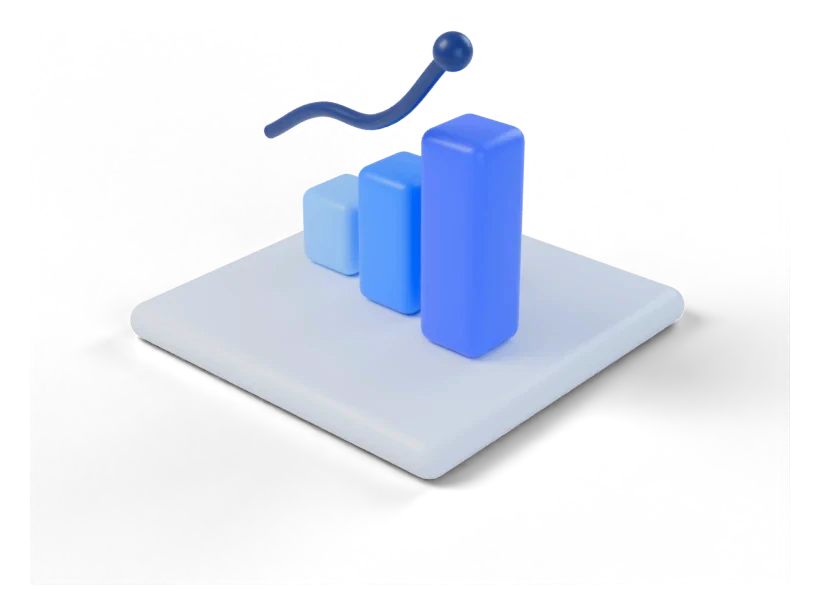
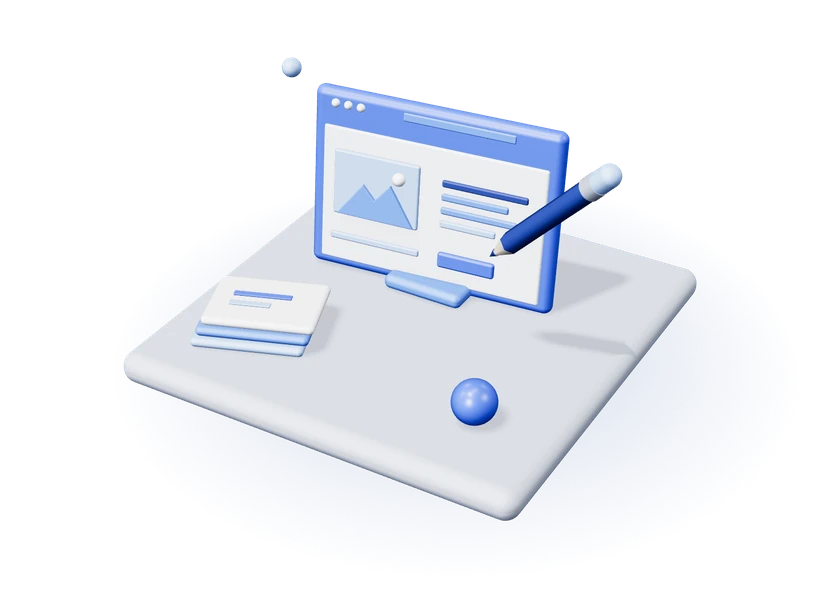
add visi and mission

Changed region(s): [[0.1524, 0.0309, 0.8841, 0.865], [0.3354, 0.0927, 0.3659, 0.1236]]

diff --git a/index.html b/index.html
@@ -5,7 +5,7 @@
 <meta name="viewport" content="width=device-width, initial-scale=1">
 <title>Befisien Technologies | AI Agent, Otomasi Workflow &amp; Integrasi Sistem</title>
 <meta name="description" content="Konsultan IT &amp; transformasi digital di Indonesia: AI agent, otomasi workflow, integrasi sistem, dashboard, dan CMS agar bisnis bekerja lebih efisien.">
-<link rel="canonical" href="https://befisien.cloud/">
+<link rel="canonical" href="https://befisien.com/">
 <meta name="robots" content="index, follow, max-image-preview:large, max-snippet:-1">
 <meta name="author" content="Befisien Technologies">
 <meta name="theme-color" content="#1F5BEA">
@@ -14,17 +14,17 @@
 <meta property="og:type" content="website">
 <meta property="og:site_name" content="Befisien Technologies">
 <meta property="og:locale" content="id_ID">
-<meta property="og:url" content="https://befisien.cloud/">
+<meta property="og:url" content="https://befisien.com/">
 <meta property="og:title" content="Befisien Technologies: Bisnis lebih efisien dengan AI &amp; otomasi">
 <meta property="og:description" content="Konsultan IT &amp; transformasi digital di Indonesia: AI agent, otomasi workflow, integrasi sistem, dashboard, dan CMS agar bisnis bekerja lebih efisien.">
-<meta property="og:image" content="https://befisien.cloud/assets/img/og-image.jpg">
+<meta property="og:image" content="https://befisien.com/assets/img/og-image.jpg">
 <meta property="og:image:width" content="1200">
 <meta property="og:image:height" content="630">
 <meta property="og:image:alt" content="Befisien Technologies: Bisnis lebih efisien dengan AI &amp; otomasi">
 <meta name="twitter:card" content="summary_large_image">
 <meta name="twitter:title" content="Befisien Technologies: Bisnis lebih efisien dengan AI &amp; otomasi">
 <meta name="twitter:description" content="Konsultan IT &amp; transformasi digital di Indonesia: AI agent, otomasi workflow, integrasi sistem, dashboard, dan CMS agar bisnis bekerja lebih efisien.">
-<meta name="twitter:image" content="https://befisien.cloud/assets/img/og-image.jpg">
+<meta name="twitter:image" content="https://befisien.com/assets/img/og-image.jpg">
 
 <!-- icons -->
 <link rel="icon" type="image/svg+xml" href="assets/img/logo-icon.svg">
@@ -44,19 +44,19 @@
   "@graph": [
     {
       "@type": "Organization",
-      "@id": "https://befisien.cloud/#organization",
+      "@id": "https://befisien.com/#organization",
       "name": "Befisien Technologies",
       "alternateName": "Befisien",
-      "url": "https://befisien.cloud/",
+      "url": "https://befisien.com/",
       "logo": {
         "@type": "ImageObject",
-        "url": "https://befisien.cloud/assets/img/logo-512.png",
+        "url": "https://befisien.com/assets/img/logo-512.png",
         "width": 512,
         "height": 512
       },
-      "image": "https://befisien.cloud/assets/img/og-image.jpg",
+      "image": "https://befisien.com/assets/img/og-image.jpg",
       "description": "Befisien Technologies adalah konsultan IT dan transformasi digital di Indonesia. Kami membantu perusahaan bekerja lebih efisien melalui AI agent, otomasi workflow, integrasi sistem, dashboard & aplikasi, serta content management service.",
-      "email": "[email@befisien.cloud]",
+      "email": "info@befisien.com",
       "telephone": "[+62 xxx xxxx xxxx]",
       "sameAs": [
         "[linkedin-url]"
@@ -76,7 +76,7 @@
       "contactPoint": {
         "@type": "ContactPoint",
         "contactType": "sales",
-        "email": "[email@befisien.cloud]",
+        "email": "info@befisien.com",
         "telephone": "[+62 xxx xxxx xxxx]",
         "areaServed": "ID",
         "availableLanguage": [
@@ -95,7 +95,7 @@
               "name": "AI Agent",
               "description": "Asisten digital berbasis AI yang memahami dokumen, data, dan percakapan bisnis untuk menjawab pelanggan, menyiapkan laporan, dan menjalankan tugas berulang 24/7.",
               "provider": {
-                "@id": "https://befisien.cloud/#organization"
+                "@id": "https://befisien.com/#organization"
               },
               "areaServed": {
                 "@type": "Country",
@@ -110,7 +110,7 @@
               "name": "Otomasi Workflow",
               "description": "Mengubah pekerjaan manual dan berulang, seperti approval, sinkronisasi data, dan pembuatan dokumen, menjadi alur kerja otomatis yang terukur.",
               "provider": {
-                "@id": "https://befisien.cloud/#organization"
+                "@id": "https://befisien.com/#organization"
               },
               "areaServed": {
                 "@type": "Country",
@@ -125,7 +125,7 @@
               "name": "Integrasi Sistem",
               "description": "Menghubungkan ERP, CRM, CMS, marketplace, dan sistem lama sehingga data cukup diinput sekali dan mengalir otomatis ke semua tim.",
               "provider": {
-                "@id": "https://befisien.cloud/#organization"
+                "@id": "https://befisien.com/#organization"
               },
               "areaServed": {
                 "@type": "Country",
@@ -140,7 +140,7 @@
               "name": "Dashboard & Aplikasi",
               "description": "Dashboard KPI real-time dan aplikasi web/mobile internal yang dibuat sesuai alur kerja perusahaan.",
               "provider": {
-                "@id": "https://befisien.cloud/#organization"
+                "@id": "https://befisien.com/#organization"
               },
               "areaServed": {
                 "@type": "Country",
@@ -155,7 +155,7 @@
               "name": "Content Management Service",
               "description": "Pembuatan dan pengelolaan CMS agar tim dapat memperbarui website, katalog, dan konten tanpa bergantung pada developer.",
               "provider": {
-                "@id": "https://befisien.cloud/#organization"
+                "@id": "https://befisien.com/#organization"
               },
               "areaServed": {
                 "@type": "Country",
@@ -164,34 +164,35 @@
             }
           }
         ]
-      }
+      },
+      "slogan": "Menjadi penggerak efisiensi bisnis di Indonesia melalui integrasi AI Agent, guna mewujudkan ekosistem usaha yang tangguh, minim eror, dan tumbuh tanpa batas."
     },
     {
       "@type": "WebSite",
-      "@id": "https://befisien.cloud/#website",
-      "url": "https://befisien.cloud/",
+      "@id": "https://befisien.com/#website",
+      "url": "https://befisien.com/",
       "name": "Befisien Technologies",
       "inLanguage": "id-ID",
       "publisher": {
-        "@id": "https://befisien.cloud/#organization"
+        "@id": "https://befisien.com/#organization"
       }
     },
     {
       "@type": "WebPage",
-      "@id": "https://befisien.cloud/#webpage",
-      "url": "https://befisien.cloud/",
+      "@id": "https://befisien.com/#webpage",
+      "url": "https://befisien.com/",
       "name": "Befisien Technologies | AI Agent, Otomasi Workflow & Integrasi Sistem",
       "description": "Konsultan IT & transformasi digital di Indonesia: AI agent, otomasi workflow, integrasi sistem, dashboard, dan CMS agar bisnis bekerja lebih efisien.",
       "inLanguage": "id-ID",
       "isPartOf": {
-        "@id": "https://befisien.cloud/#website"
+        "@id": "https://befisien.com/#website"
       },
       "about": {
-        "@id": "https://befisien.cloud/#organization"
+        "@id": "https://befisien.com/#organization"
       },
       "primaryImageOfPage": {
         "@type": "ImageObject",
-        "url": "https://befisien.cloud/assets/img/og-image.jpg",
+        "url": "https://befisien.com/assets/img/og-image.jpg",
         "width": 1200,
         "height": 630
       },
@@ -199,7 +200,7 @@
     },
     {
       "@type": "FAQPage",
-      "@id": "https://befisien.cloud/#faq",
+      "@id": "https://befisien.com/#faq",
       "inLanguage": "id-ID",
       "mainEntity": [
         {
@@ -276,6 +277,7 @@
       <a href="#solusi">Solusi</a>
       <a href="#penerapan">Penerapan</a>
       <a href="#proses">Cara Kerja</a>
+      <a href="#tentang">Tentang Kami</a>
       <a href="#faq">FAQ</a>
     </nav>
     <a href="#kontak" class="btn btn-primary">Konsultasi Gratis</a>
@@ -582,6 +584,81 @@
     </div>
   </section>
 
+  <!-- ABOUT -->
+  <section id="tentang" class="section about">
+    <div class="container">
+      <div class="sec-head">
+        <div>
+          <span class="eyebrow">Tentang kami</span>
+          <h2>Visi &amp; misi <span class="hl">Befisien</span></h2>
+        </div>
+        <p>Alasan kami ada, dan komitmen yang kami pegang di setiap proyek.</p>
+      </div>
+
+      <div class="vision">
+        <svg class="vision-rings" viewBox="0 0 600 600" aria-hidden="true"><g fill="none" stroke="#fff" stroke-width="34"><circle cx="300" cy="300" r="120"/><circle cx="300" cy="300" r="210"/><circle cx="300" cy="300" r="300"/></g></svg>
+        <span class="vision-label"><span class="dot"></span>Visi</span>
+        <blockquote><p>“Menjadi <span>penggerak efisiensi bisnis di Indonesia</span> melalui integrasi AI Agent, guna mewujudkan ekosistem usaha yang tangguh, minim eror, dan tumbuh tanpa batas.”</p></blockquote>
+      </div>
+
+      <div class="mission-head">
+        <h3>Misi</h3>
+        <p>Untuk mencapai visi tersebut, Befisien berkomitmen untuk:</p>
+      </div>
+      <ol class="missions">
+          <li>
+            <span class="m-num" aria-hidden="true">01</span>
+            <h4>Personalisasi Solusi AI</h4>
+            <p>Membangun AI Agent yang dirancang khusus sesuai dengan kebutuhan unik setiap departemen di perusahaan klien, bukan solusi satu-untuk-semua.</p>
+          </li>
+          <li>
+            <span class="m-num" aria-hidden="true">02</span>
+            <h4>Akselerasi Pertumbuhan <small>(Growth Hacking)</small></h4>
+            <p>Mengoptimalkan proses bisnis yang lambat menjadi instan, sehingga klien dapat melakukan scaling tanpa terhambat masalah administratif.</p>
+          </li>
+          <li>
+            <span class="m-num" aria-hidden="true">03</span>
+            <h4>Eliminasi Human Error</h4>
+            <p>Mengintegrasikan sistem cerdas yang mampu bekerja dengan presisi tinggi 24/7 untuk menjaga standar kualitas kerja klien.</p>
+          </li>
+          <li>
+            <span class="m-num" aria-hidden="true">04</span>
+            <h4>Demokratisasi Teknologi Tinggi</h4>
+            <p>Menghadirkan teknologi AI mutakhir yang biasanya hanya dimiliki perusahaan besar, agar dapat diakses dan digunakan dengan mudah oleh UMKM dan CV yang sedang berkembang.</p>
+          </li>
+          <li>
+            <span class="m-num" aria-hidden="true">05</span>
+            <h4>Edukasi Efisiensi</h4>
+            <p>Menjadi partner konsultasi yang membantu pemilik bisnis memahami cara kerja cerdas (work smarter) melalui kolaborasi manusia dan AI.</p>
+          </li>
+      </ol>
+
+      <div class="philosophy">
+        <div class="philo-mark" aria-hidden="true">
+          <img src="assets/img/logo-icon.svg" alt="" width="100" height="120" loading="lazy">
+          <span class="logo-text"><b>BEFISIEN</b><small>TECHNOLOGIES</small></span>
+        </div>
+        <div>
+          <h3>Filosofi di balik <span>nama &amp; logo</span></h3>
+          <dl class="philo-list">
+          <div>
+            <dt>B<small>Build / Become</small></dt>
+            <dd>Membangun pondasi yang kuat.</dd>
+          </div>
+          <div>
+            <dt>EFISIEN</dt>
+            <dd>Fokus tunggal kami.</dd>
+          </div>
+          <div>
+            <dt>Tiga garis</dt>
+            <dd>Menunjukkan proses bertumbuhnya sebuah bisnis, sekaligus simbol integrasi: semuanya saling terhubung.</dd>
+          </div>
+          </dl>
+        </div>
+      </div>
+    </div>
+  </section>
+
   <!-- FAQ -->
   <section id="faq" class="section faq">
     <div class="container faq-inner">
@@ -633,7 +710,7 @@
         <div class="contact-alt">
           <span>Lebih suka langsung?</span>
           <a href="https://wa.me/[62xxxxxxxxxx]" class="btn btn-outline-light" rel="noopener">Chat WhatsApp</a>
-          <a href="mailto:[email@befisien.cloud]" class="contact-mail">[email@befisien.cloud]</a>
+          <a href="mailto:info@befisien.com" class="contact-mail">info@befisien.com</a>
         </div>
       </div>
 
@@ -694,12 +771,12 @@
     <div class="footer-top">
       <p>Befisien Technologies: konsultan IT &amp; transformasi digital untuk perusahaan di Indonesia.</p>
       <nav class="footer-nav" aria-label="Navigasi footer">
-        <a href="#solusi">Solusi</a><a href="#penerapan">Penerapan</a><a href="#proses">Cara Kerja</a><a href="#faq">FAQ</a><a href="#kontak">Kontak</a>
+        <a href="#solusi">Solusi</a><a href="#penerapan">Penerapan</a><a href="#proses">Cara Kerja</a><a href="#tentang">Tentang Kami</a><a href="#faq">FAQ</a><a href="#kontak">Kontak</a>
       </nav>
     </div>
     <div class="footer-bottom">
       <a href="#top" class="logo"><img src="assets/img/logo-icon.svg" alt=""><span class="logo-text"><b>BEFISIEN</b><small>TECHNOLOGIES</small></span></a>
-      <span class="contact"><span>[email@befisien.cloud]</span><span>[+62 xxx xxxx xxxx]</span><a href="[linkedin-url]" rel="noopener">LinkedIn</a></span>
+      <span class="contact"><span>info@befisien.com</span><span>[+62 xxx xxxx xxxx]</span><a href="[linkedin-url]" rel="noopener">LinkedIn</a></span>
       <span>© <span id="year">2026</span> Befisien Technologies</span>
     </div>
   </div>

diff --git a/assets/css/style.css b/assets/css/style.css
@@ -39,7 +39,7 @@ h1,h2,h3{margin:0;font-weight:800;letter-spacing:-.025em}
 .logo img{width:32px;height:38px}
 .logo-text{display:flex;flex-direction:column;line-height:1}
 .logo-text b{font-weight:800;font-size:20px;letter-spacing:.02em}
-.logo-text small{font-weight:700;font-size:9.5px;letter-spacing:.12em;margin-top:3px}
+.logo-text small{font-weight:800;font-size:10px;letter-spacing:.1em;margin-top:3px}
 
 /* nav */
 .site-header{position:sticky;top:0;z-index:20;background:rgba(255,255,255,.92);backdrop-filter:blur(10px)}
@@ -191,6 +191,40 @@ section[id]{scroll-margin-top:80px}
 .uc-link:hover{color:var(--accent-dark)}
 .uc-link:hover svg{transform:translateX(3px)}
 
+/* about */
+.about{background:#F3F7FF}
+.vision{position:relative;overflow:hidden;margin-bottom:72px;padding:56px;border-radius:32px;background:var(--accent);color:#fff}
+.vision-rings{position:absolute;right:-200px;top:-220px;width:600px;height:600px;opacity:.14;overflow:visible;pointer-events:none}
+.vision-label{position:relative;display:inline-flex;align-items:center;gap:8px;padding:8px 14px;border-radius:999px;background:#fff;color:var(--navy);font-size:13px;font-weight:700}
+.vision blockquote{position:relative;max-width:920px;margin:28px 0 0}
+.vision blockquote p{margin:0;font-size:clamp(26px,3.1vw,42px);font-weight:800;line-height:1.25;letter-spacing:-.02em}
+.vision blockquote span{color:var(--sky)}
+.mission-head{display:flex;flex-wrap:wrap;align-items:baseline;gap:8px 24px;margin-bottom:28px}
+.mission-head h3{font-size:36px}
+.mission-head p{margin:0;font-size:16px;color:var(--text-2)}
+.missions{list-style:none;margin:0;padding:0;display:grid;grid-template-columns:repeat(6,minmax(0,1fr));gap:16px}
+.missions li{grid-column:span 2;display:flex;flex-direction:column;gap:12px;padding:26px;border-radius:24px;background:#fff;border:1.5px solid #E3EAF8;transition:border-color .2s,box-shadow .2s}
+.missions li:nth-child(n+4){grid-column:span 3}
+.missions li:hover{border-color:#C5D4F5;box-shadow:0 24px 40px -30px rgba(31,91,234,.45)}
+.m-num{width:44px;height:44px;border-radius:14px;background:var(--tint);color:var(--accent);display:flex;align-items:center;justify-content:center;font-size:15px;font-weight:800}
+.missions h4{margin:6px 0 0;font-size:20px;font-weight:800;letter-spacing:-.01em;line-height:1.3}
+.missions h4 small{display:block;margin-top:2px;font-size:14px;font-weight:600;color:var(--accent)}
+.missions p{margin:0;font-size:15px;line-height:1.6;color:var(--text-2)}
+.philosophy{margin-top:72px;display:grid;grid-template-columns:minmax(0,4fr) minmax(0,7fr);gap:48px;align-items:center;padding:48px;border-radius:32px;background:var(--navy);color:#fff}
+.philo-mark{display:flex;flex-direction:column;align-items:center;gap:24px;padding:48px 24px;border-radius:24px;background:rgba(255,255,255,.04);border:1px solid var(--navy-line)}
+.philo-mark img{width:96px;height:auto}
+.philo-mark .logo-text{align-items:center}
+.philo-mark .logo-text b{font-size:34px}
+.philo-mark .logo-text small{font-size:16.5px;margin-top:5px}
+.philosophy h3{margin-bottom:24px;font-size:32px;line-height:1.15}
+.philosophy h3 span{color:var(--sky-2)}
+.philo-list{margin:0;display:grid;gap:18px}
+.philo-list div{display:grid;grid-template-columns:160px minmax(0,1fr);gap:16px;padding-bottom:18px;border-bottom:1px solid var(--navy-line)}
+.philo-list div:last-child{padding-bottom:0;border-bottom:0}
+.philo-list dt{font-size:18px;font-weight:800;color:var(--sky-2)}
+.philo-list dt small{display:block;margin-top:2px;font-size:13px;font-weight:600;color:var(--muted-on-dark)}
+.philo-list dd{margin:0;font-size:16px;line-height:1.6;color:#D5DEF5}
+
 /* faq */
 .faq{padding-top:56px}
 .faq-inner{display:grid;grid-template-columns:minmax(0,4fr) minmax(0,8fr);gap:48px;align-items:start}
@@ -289,6 +323,10 @@ section[id]{scroll-margin-top:80px}
   .uc-grid{grid-template-columns:repeat(2,minmax(0,1fr))}
   .faq-inner{grid-template-columns:minmax(0,1fr);gap:28px}
   .faq-intro{position:static}
+  .vision{padding:40px 32px}
+  .missions li,.missions li:nth-child(n+4){grid-column:span 3}
+  .missions li:last-child{grid-column:1/-1}
+  .philosophy{grid-template-columns:minmax(0,1fr);gap:32px;padding:32px}
   .timeline{grid-template-columns:minmax(0,1fr);gap:32px}
   .timeline::before,.timeline::after{display:none}
   .timeline li{display:flex;flex-direction:column;grid-row:auto;padding-left:calc(var(--node) + 20px)}
@@ -325,6 +363,13 @@ section[id]{scroll-margin-top:80px}
   .sol-title.is-long{font-size:40px}
   .uc-grid{grid-template-columns:minmax(0,1fr)}
   .faq-a{padding-right:0}
+  .vision{margin-bottom:56px;padding:32px 22px;border-radius:24px}
+  .missions{grid-template-columns:minmax(0,1fr)}
+  .missions li,.missions li:nth-child(n+4),.missions li:last-child{grid-column:auto}
+  .mission-head h3{font-size:30px}
+  .philosophy{margin-top:56px;padding:24px 20px;border-radius:24px}
+  .philosophy h3{font-size:26px}
+  .philo-list div{grid-template-columns:minmax(0,1fr);gap:4px}
   .contact-inner{padding-top:72px;padding-bottom:56px}
   .cform{grid-template-columns:minmax(0,1fr);padding:24px 20px;border-radius:22px}
   .cform-foot .btn{width:100%;justify-content:center}
